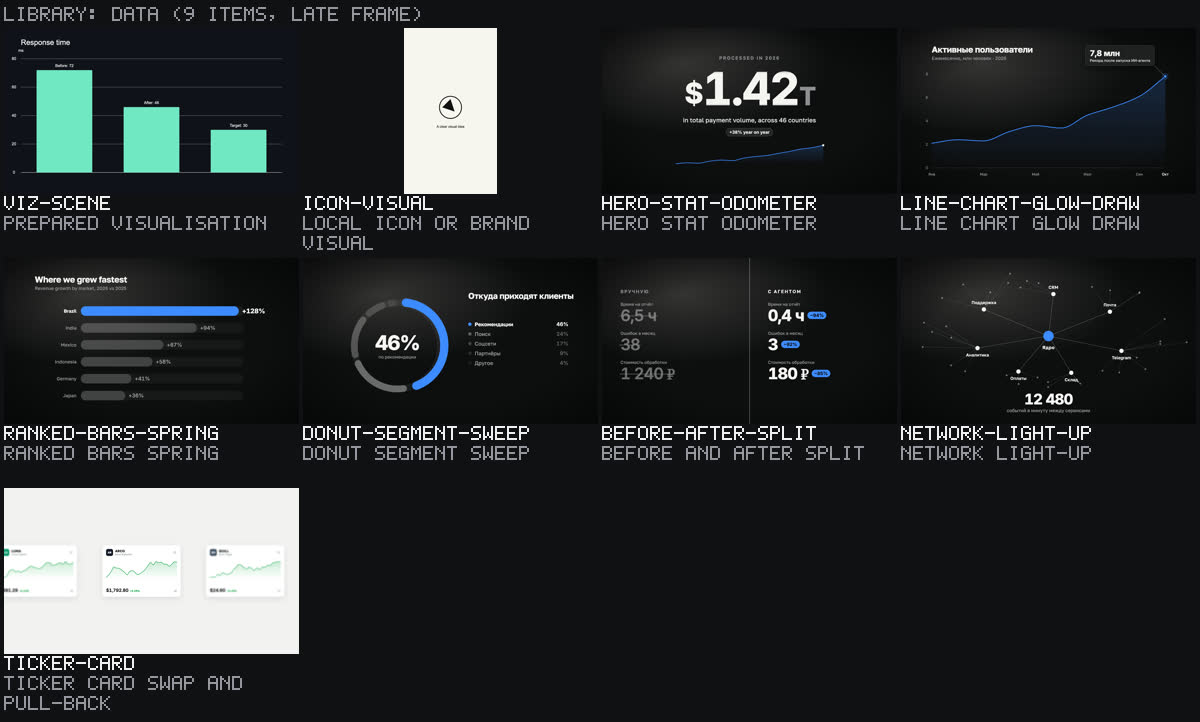
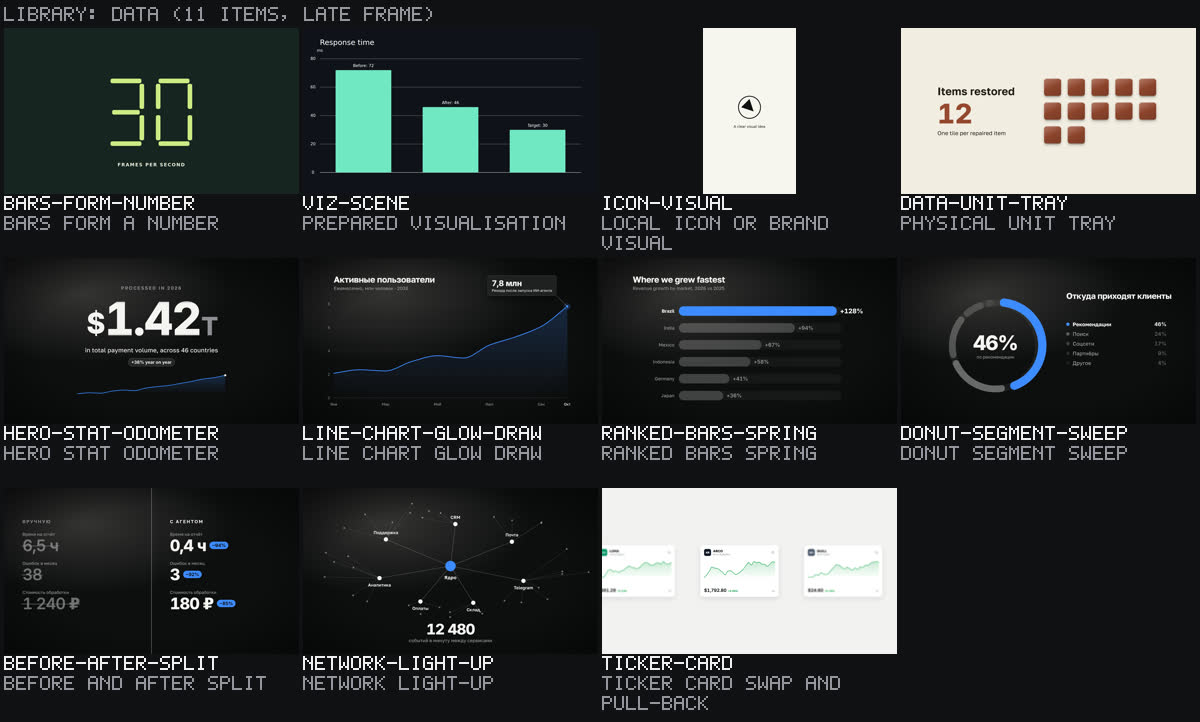
Add library previews for the new blocks and refresh category sheets (#70)
* Add library previews for the new blocks and refresh category sheets

* Test that every catalogue block has its preview sheet

* Add the unit tray sheet; keep the third-party collage cut-out out of the effects sheet

diff --git a/tests/library-previews.test.ts b/tests/library-previews.test.ts
@@ -1,0 +1,20 @@
+/**
+ * Every library block's preview sheet is in the repository (docs/assets.md class (c)), so `library:list`, the console
+ * Library page and the docs can show it. Reads the catalogue inside the test, so a missing sheet fails it by name.
+ */
+import test from "node:test";
+import assert from "node:assert/strict";
+import { existsSync, readFileSync } from "node:fs";
+
+/** Its sample cut-out derives from a third-party mockup, so its sheet is not published (docs/assets.md, collage). */
+const UNPUBLISHED = new Set(["paper-collage-assemble"]);
+
+test("every catalogue block has its preview sheet in the repository", () => {
+  const catalogue = JSON.parse(readFileSync("docs/library/catalogue.json", "utf8")) as {
+    items: { id: string; preview?: { image?: string } }[];
+  };
+  const missing = catalogue.items
+    .filter(({ id, preview }) => !UNPUBLISHED.has(id) && preview?.image && !existsSync(preview.image))
+    .map(({ id }) => id);
+  assert.deepEqual(missing, []);
+});

diff --git a/README.md b/README.md
@@ -578,6 +578,8 @@ You approve at every gate that matters: the idea, the look, the music, the final
   </tr>
 </table>
 
+[![Aperture S, its connector, frosted glass and a modular cell array](docs/readme/drei-showcase.jpg)](docs/drei-techniques.md#six-original-demonstrations)
+
 See [six original 3D animation studies](docs/drei-techniques.md#six-original-demonstrations), including a battery latch timed to the frame, a technical teardown and a frosted product reveal. Each study includes its technique and render command.
 
 ### ✂ Your own footage

diff --git a/.changes/library-previews.md b/.changes/library-previews.md
@@ -1,0 +1,9 @@
+---
+category: fix
+bump: patch
+breaking: false
+pr: 0
+authors: [ilyamk]
+harness: claude-code
+---
+Library previews for the blocks added in #63, #66 and #67 and a refreshed overview sheet for every category they joined, so `library:list`, the console Library page and the docs show them; the README shows the Drei study again
